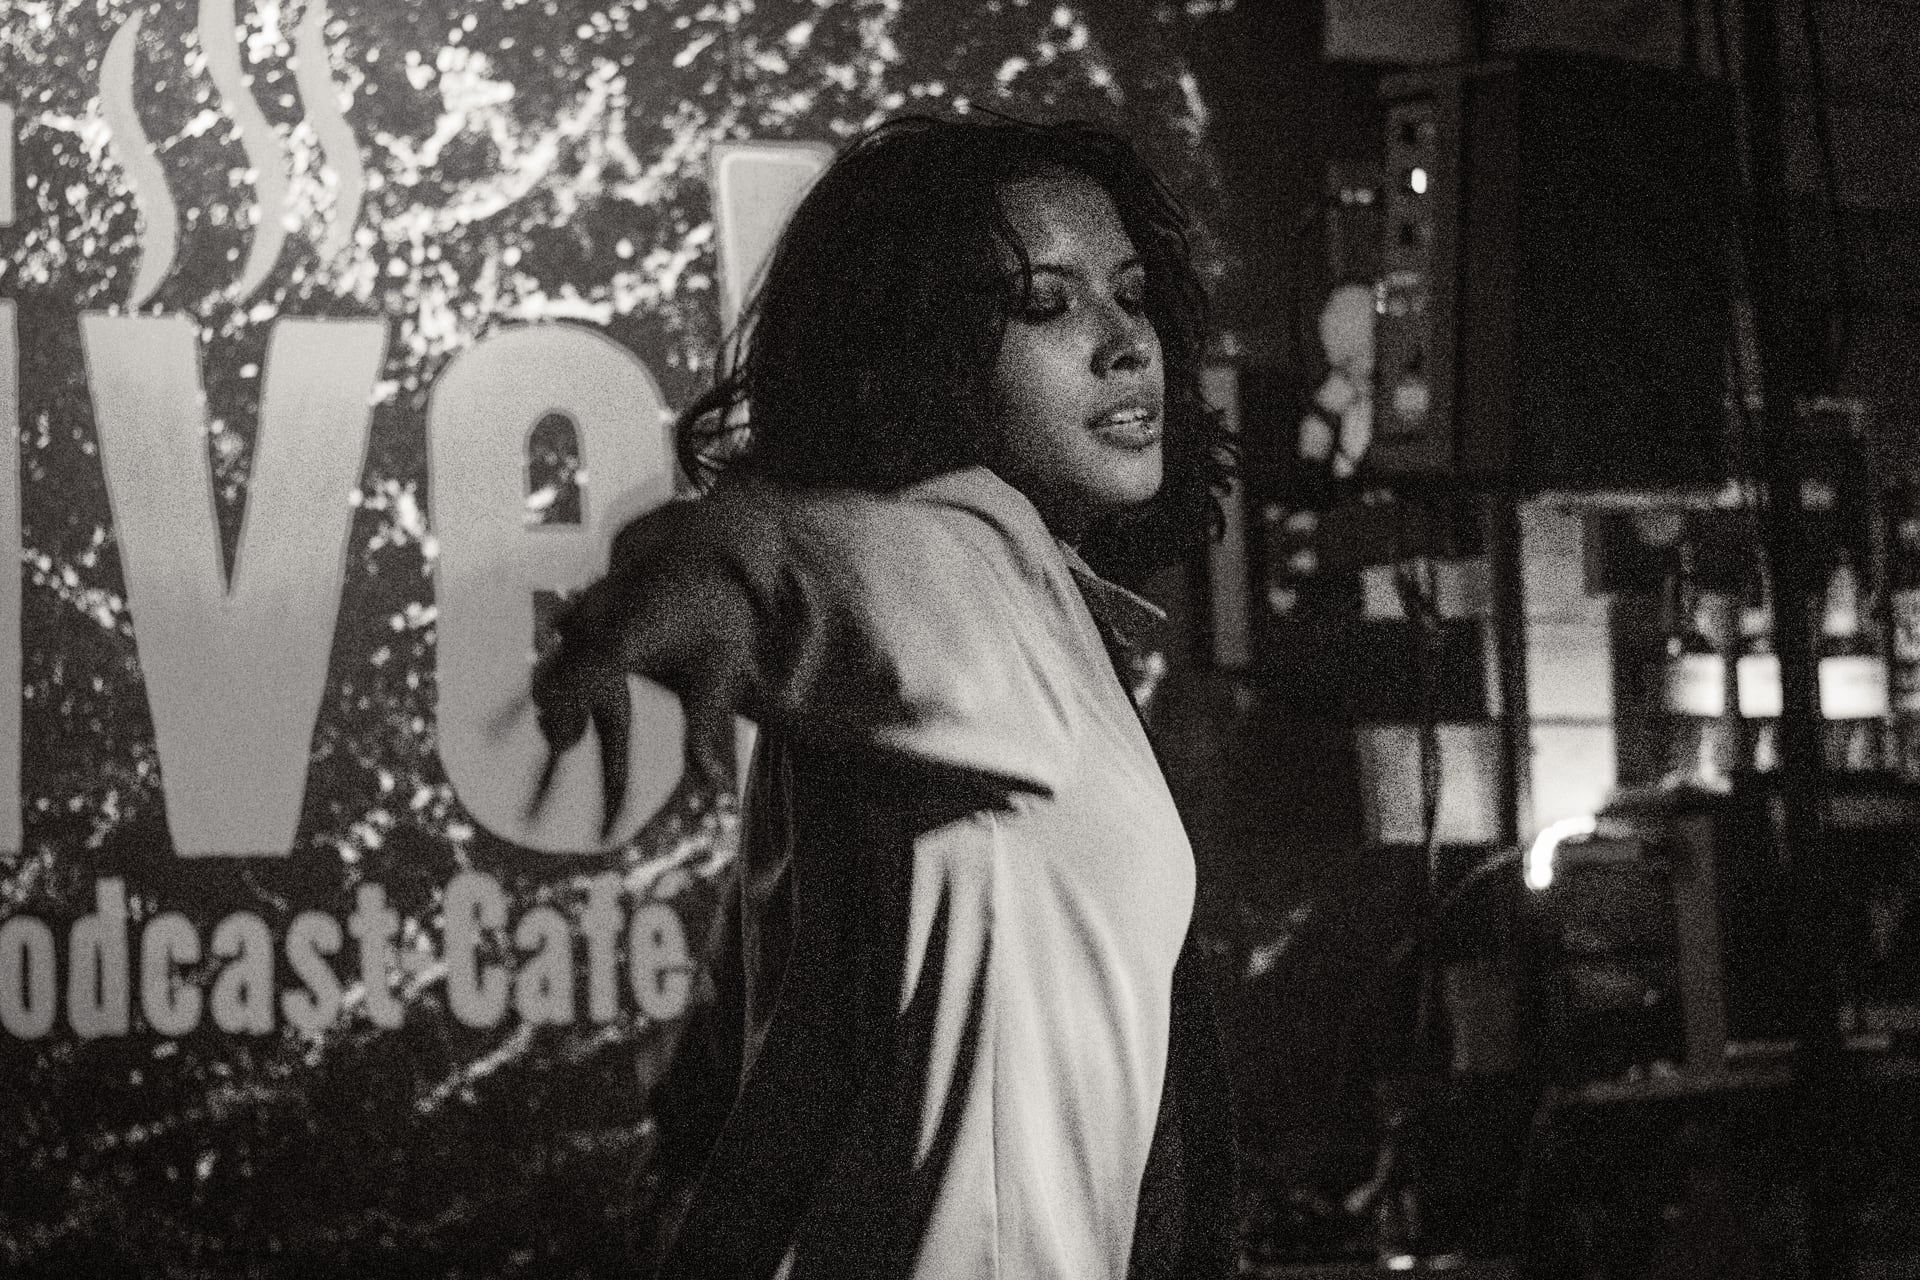
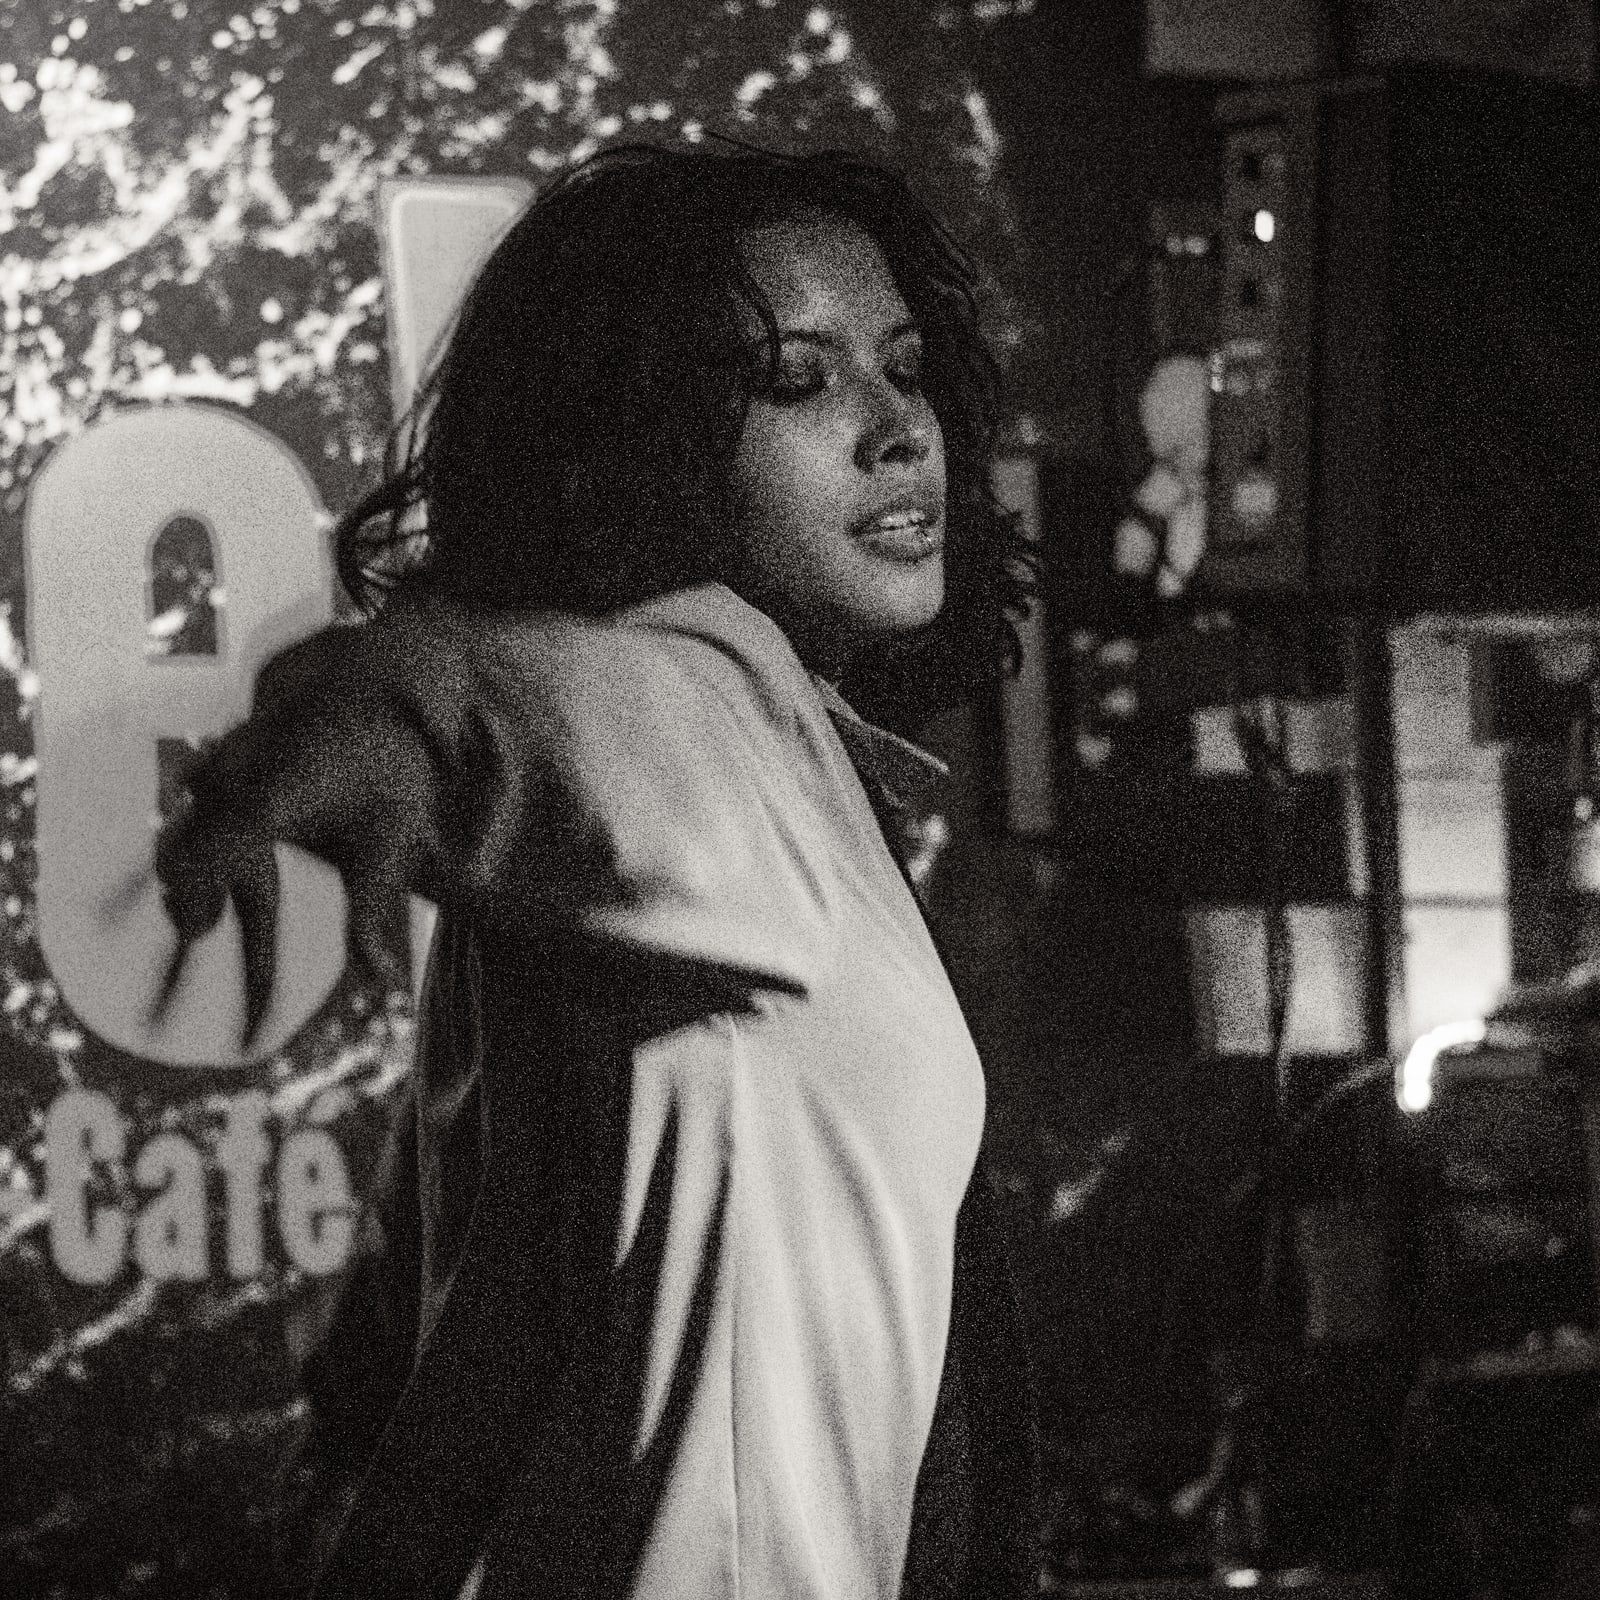
crop Camila artwork for gallery frame

diff --git a/script.js b/script.js
@@ -500,7 +500,7 @@ const artists = [
       "optimized/artists/camila-valencia/obra-1.jpg?v=20260727-1",
       "optimized/artists/camila-valencia/obra-2.jpg?v=20260727-1",
       "optimized/artists/camila-valencia/obra-3.jpg?v=20260727-1",
-      "optimized/artists/camila-valencia/obra-4.jpg?v=20260727-1"
+      "optimized/artists/camila-valencia/obra-4.jpg?v=20260727-2"
     ],
     instagram: "https://www.instagram.com/_camila_valencia_/",
     instagramLabel: "@_camila_valencia_",
